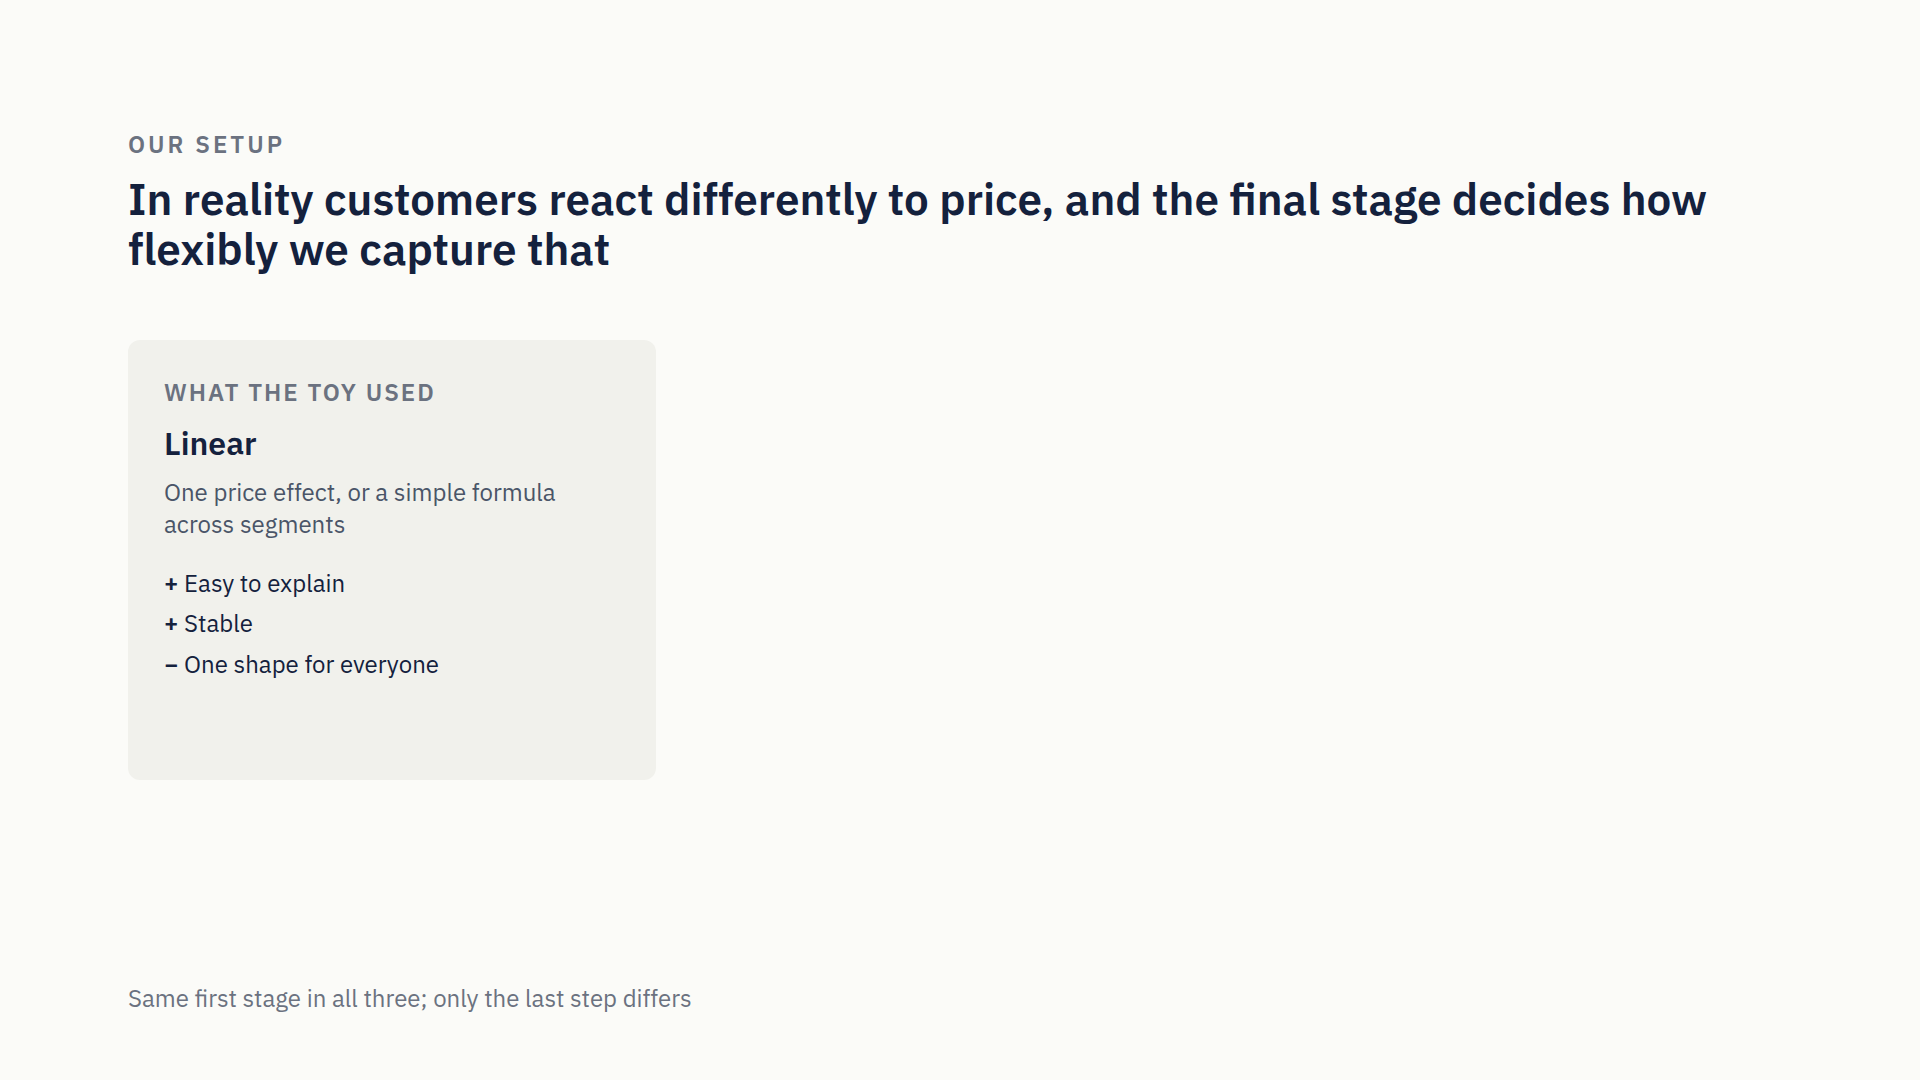
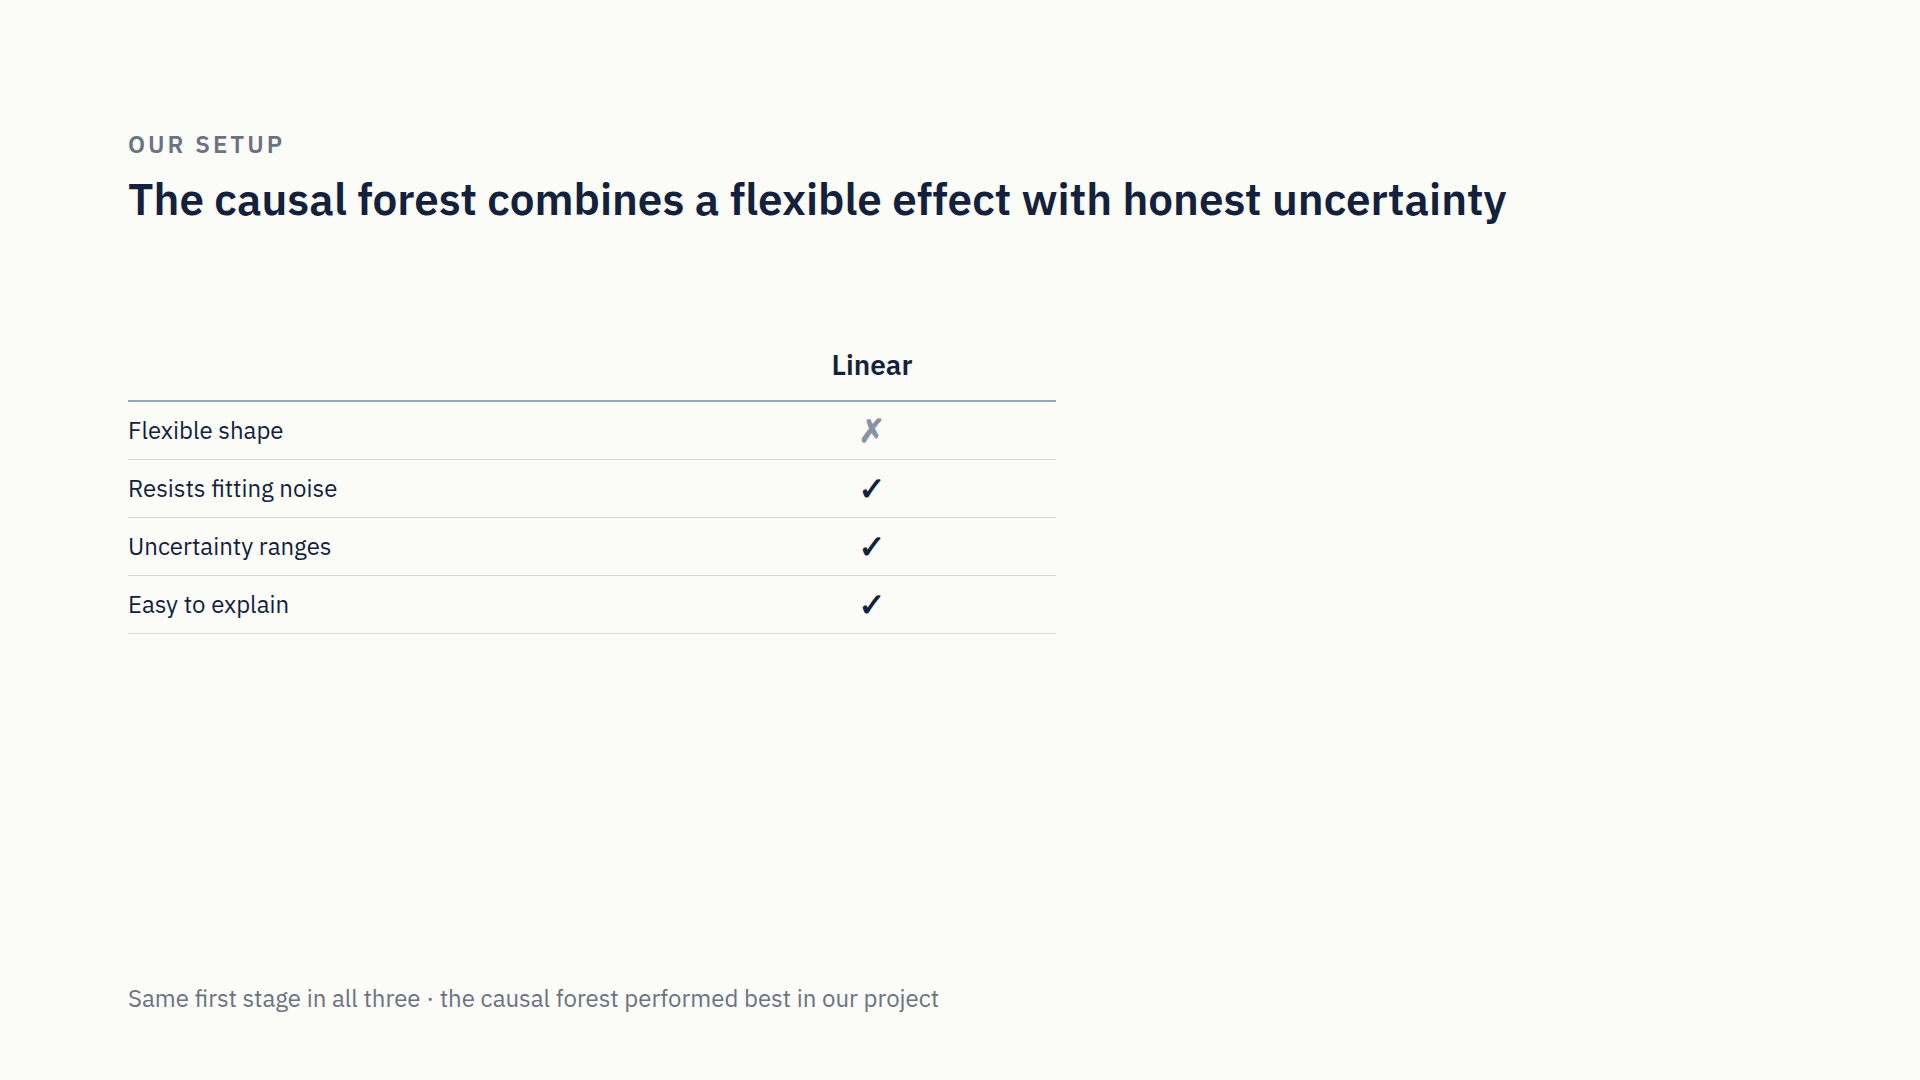
Slide 8: comparison grid with honest-trees diagram; drop slide 9
Final-stage options as a criteria grid (linear, boosted, causal forest)
plus a strip explaining how the causal forest works (splits on the
effect, honest trees as a two-halves diagram). The separate causal
forest slide repeated this and is removed; the deck has 8 slides.

Claude-Session: https://claude.ai/code/session_01L79CPAaUeWxGkpt4Mij7tB

diff --git a/causal-pricing-deck/deck/project/slides/final-stage.html b/causal-pricing-deck/deck/project/slides/final-stage.html
@@ -1,46 +1,73 @@
 <section id="final-stage" data-transition="fade" style="background:#FBFBF8; color:#4A5568; font-family:'IBM Plex Sans', Arial, sans-serif; padding:128px 128px 160px; display:flex; flex-direction:column; gap:12px">
   <p style="font-size:24px; font-weight:600; letter-spacing:3px; text-transform:uppercase; color:#6B7280">Our setup</p>
-  <h2 style="font-size:44px; font-weight:600; line-height:1.15; color:#14213D">In reality customers react differently to price, and the final stage decides how flexibly we capture that</h2>
-  <div data-build-in="fade 1" style="position:absolute; left:128px; top:340px; width:528px; height:440px; display:flex; flex-direction:column; gap:14px; background:#F1F1EC; border-radius:12px; padding:36px">
-    <p style="font-size:24px; font-weight:600; letter-spacing:2px; text-transform:uppercase; color:#6B7280">What the toy used</p>
-    <h3 style="font-size:32px; font-weight:600; line-height:1.2; color:#14213D">Linear</h3>
-    <p style="font-size:24px; line-height:1.35">One price effect, or a simple formula across segments</p>
-    <div style="display:flex; flex-direction:column; gap:8px; padding:12px 0px 0px 0px">
-      <p style="font-size:24px; line-height:1.35; color:#14213D"><b>+</b> Easy to explain</p>
-      <p style="font-size:24px; line-height:1.35; color:#14213D"><b>+</b> Stable</p>
-      <p style="font-size:24px; line-height:1.35; color:#14213D"><b>−</b> One shape for everyone</p>
+  <h2 style="font-size:44px; font-weight:600; line-height:1.15; color:#14213D">The causal forest combines a flexible effect with honest uncertainty</h2>
+  <div style="position:absolute; left:128px; top:330px; width:560px; display:flex; flex-direction:column">
+    <div style="height:72px; border-bottom:2px solid #9AA5B8"></div>
+    <div style="height:58px; display:flex; align-items:center; border-bottom:1px solid #D9D9D2"><p style="font-size:24px; color:#14213D">Flexible shape</p></div>
+    <div style="height:58px; display:flex; align-items:center; border-bottom:1px solid #D9D9D2"><p style="font-size:24px; color:#14213D">Resists fitting noise</p></div>
+    <div style="height:58px; display:flex; align-items:center; border-bottom:1px solid #D9D9D2"><p style="font-size:24px; color:#14213D">Uncertainty ranges</p></div>
+    <div style="height:58px; display:flex; align-items:center; border-bottom:1px solid #D9D9D2"><p style="font-size:24px; color:#14213D">Easy to explain</p></div>
+  </div>
+  <div data-build-in="fade 1" style="position:absolute; left:688px; top:330px; width:368px; display:flex; flex-direction:column">
+    <div style="height:72px; display:flex; align-items:center; justify-content:center; border-bottom:2px solid #9AA5B8"><p style="font-size:28px; font-weight:600; color:#14213D">Linear</p></div>
+    <div style="height:58px; display:flex; align-items:center; justify-content:center; border-bottom:1px solid #D9D9D2"><p style="font-size:32px; font-weight:600; color:#8A93A3">✗</p></div>
+    <div style="height:58px; display:flex; align-items:center; justify-content:center; border-bottom:1px solid #D9D9D2"><p style="font-size:32px; font-weight:600; color:#14213D">✓</p></div>
+    <div style="height:58px; display:flex; align-items:center; justify-content:center; border-bottom:1px solid #D9D9D2"><p style="font-size:32px; font-weight:600; color:#14213D">✓</p></div>
+    <div style="height:58px; display:flex; align-items:center; justify-content:center; border-bottom:1px solid #D9D9D2"><p style="font-size:32px; font-weight:600; color:#14213D">✓</p></div>
+  </div>
+  <div data-build-in="fade 2" style="position:absolute; left:1056px; top:330px; width:368px; display:flex; flex-direction:column">
+    <div style="height:72px; display:flex; align-items:center; justify-content:center; border-bottom:2px solid #9AA5B8"><p style="font-size:28px; font-weight:600; color:#14213D">Boosted</p></div>
+    <div style="height:58px; display:flex; align-items:center; justify-content:center; border-bottom:1px solid #D9D9D2"><p style="font-size:32px; font-weight:600; color:#14213D">✓</p></div>
+    <div style="height:58px; display:flex; align-items:center; justify-content:center; border-bottom:1px solid #D9D9D2"><p style="font-size:24px; color:#6B7280">partly</p></div>
+    <div style="height:58px; display:flex; align-items:center; justify-content:center; border-bottom:1px solid #D9D9D2"><p style="font-size:32px; font-weight:600; color:#8A93A3">✗</p></div>
+    <div style="height:58px; display:flex; align-items:center; justify-content:center; border-bottom:1px solid #D9D9D2"><p style="font-size:24px; color:#6B7280">partly</p></div>
+  </div>
+  <p data-build-in="fade 3" style="position:absolute; left:1424px; top:284px; width:368px; font-size:24px; font-weight:600; letter-spacing:2px; text-transform:uppercase; color:#1C5CAB; text-align:center">Our choice</p>
+  <div data-build-in="fade 3" style="position:absolute; left:1424px; top:327px; width:368px; display:flex; flex-direction:column; background:#FFFFFF; border:3px solid #2A78D6; border-radius:12px">
+    <div style="height:72px; display:flex; align-items:center; justify-content:center; border-bottom:2px solid #9AA5B8"><p style="font-size:28px; font-weight:600; color:#14213D">Causal forest</p></div>
+    <div style="height:58px; display:flex; align-items:center; justify-content:center; border-bottom:1px solid #D9D9D2"><p style="font-size:32px; font-weight:600; color:#14213D">✓</p></div>
+    <div style="height:58px; display:flex; align-items:center; justify-content:center; border-bottom:1px solid #D9D9D2"><p style="font-size:32px; font-weight:600; color:#14213D">✓</p></div>
+    <div style="height:58px; display:flex; align-items:center; justify-content:center; border-bottom:1px solid #D9D9D2"><p style="font-size:32px; font-weight:600; color:#14213D">✓</p></div>
+    <div style="height:58px; display:flex; align-items:center; justify-content:center; border-bottom:1px solid #D9D9D2"><p style="font-size:24px; color:#6B7280">partly</p></div>
+  </div>
+  <div data-build-in="fade 4" style="position:absolute; left:128px; top:660px; width:1664px; display:flex; flex-direction:column; gap:16px; border-left:4px solid #2A78D6; padding:4px 0px 4px 24px">
+    <p style="font-size:24px; font-weight:600; letter-spacing:2px; text-transform:uppercase; color:#6B7280">How the causal forest does it</p>
+    <div style="display:flex; flex-direction:row; gap:64px">
+      <div style="width:620px; display:flex; flex-direction:column; gap:8px">
+        <p style="font-size:28px; font-weight:600; line-height:1.25; color:#14213D">Splits on the effect</p>
+        <p style="font-size:24px; line-height:1.35">Looks for where price sensitivity changes, not where lapse changes</p>
+      </div>
+      <div style="flex:1; display:flex; flex-direction:column; gap:8px">
+        <p style="font-size:28px; font-weight:600; line-height:1.25; color:#14213D">Honest trees</p>
+        <div style="width:640px; display:flex; flex-direction:row">
+          <div style="flex:1; display:flex; flex-direction:column; gap:8px">
+            <div style="height:48px; display:flex; align-items:center; justify-content:center; background:#D6E4F5; border-radius:12px 0px 0px 12px"><p style="font-size:24px; font-weight:600; color:#1C5CAB">Half A</p></div>
+            <p style="font-size:24px; line-height:1.35; text-align:center">↓ chooses the splits</p>
+          </div>
+          <div style="flex:1; display:flex; flex-direction:column; gap:8px">
+            <div style="height:48px; display:flex; align-items:center; justify-content:center; background:#1C5CAB; border-radius:0px 12px 12px 0px"><p style="font-size:24px; font-weight:600; color:#FBFBF8">Half B</p></div>
+            <p style="font-size:24px; line-height:1.35; text-align:center">↓ measures the effect</p>
+          </div>
+        </div>
+      </div>
     </div>
   </div>
-  <div data-build-in="fade 2" style="position:absolute; left:696px; top:340px; width:528px; height:440px; display:flex; flex-direction:column; gap:14px; background:#F1F1EC; border-radius:12px; padding:36px">
-    <p style="font-size:24px; font-weight:600; letter-spacing:2px; text-transform:uppercase; color:#6B7280">Most flexible</p>
-    <h3 style="font-size:32px; font-weight:600; line-height:1.2; color:#14213D">Boosted final stage</h3>
-    <p style="font-size:24px; line-height:1.35">LightGBM learns the effect from the residuals</p>
-    <div style="display:flex; flex-direction:column; gap:8px; padding:12px 0px 0px 0px">
-      <p style="font-size:24px; line-height:1.35; color:#14213D"><b>+</b> Any shape of effect</p>
-      <p style="font-size:24px; line-height:1.35; color:#14213D"><b>+</b> Any ML model plugs in</p>
-      <p style="font-size:24px; line-height:1.35; color:#14213D"><b>−</b> Can chase noise in the residuals</p>
-      <p style="font-size:24px; line-height:1.35; color:#14213D"><b>−</b> No uncertainty ranges</p>
-    </div>
-  </div>
-  <div data-build-in="fade 3" style="position:absolute; left:1264px; top:340px; width:528px; height:440px; display:flex; flex-direction:column; gap:14px; background:#FFFFFF; border:3px solid #2A78D6; border-radius:12px; padding:33px">
-    <p style="font-size:24px; font-weight:600; letter-spacing:2px; text-transform:uppercase; color:#1C5CAB">Our choice</p>
-    <h3 style="font-size:32px; font-weight:600; line-height:1.2; color:#14213D">Causal forest</h3>
-    <p style="font-size:24px; line-height:1.35">Trees grown to find where the price effect differs</p>
-    <div style="display:flex; flex-direction:column; gap:8px; padding:12px 0px 0px 0px">
-      <p style="font-size:24px; line-height:1.35; color:#14213D"><b>+</b> Any shape of effect</p>
-      <p style="font-size:24px; line-height:1.35; color:#14213D"><b>+</b> Honest: resists fitting noise</p>
-      <p style="font-size:24px; line-height:1.35; color:#14213D"><b>+</b> Uncertainty per segment</p>
-      <p style="font-size:24px; line-height:1.35; color:#14213D"><b>−</b> Harder to explain than one number</p>
-    </div>
-  </div>
-  <p style="position:absolute; left:128px; bottom:64px; width:1480px; font-size:24px; color:#6B7280">Same first stage in all three; only the last step differs</p>
-  <aside>Message: the toy had one price effect for everyone. Real customers differ: young vs old, new vs long-standing, online vs agent. The first stage stays the same; the final stage decides how the effect may vary across customers.
+  <p style="position:absolute; left:128px; bottom:64px; width:1480px; font-size:24px; color:#6B7280">Same first stage in all three · the causal forest performed best in our project</p>
+  <aside>Message: real customers react differently to price, so the final stage has to let the effect θ̂(X) vary. Three options; the causal forest is the only one that is flexible, resists noise and gives uncertainty ranges. The first stage is the same in all three.
 
-Builds, left to right: simple → flexible → flexible and reliable.
+Start: the four criteria. Pause and ask: "What do we need from the final stage?"
 
-Click 1, Linear (econml LinearDML). What the toy used: one price effect, or a linear formula in a few chosen features. Easy to explain and stable, with standard confidence intervals. Limitation: the effect can only vary in the shape we write down.
+Click 1, Linear (econml LinearDML). What the toy used: one price effect, or a linear formula in a few chosen features. Stable, with standard confidence intervals, and easy to explain. But the effect can only vary in the shape we write down.
 
-Click 2, Boosted final stage. A LightGBM model learns the price effect as a function of the customer features from the first-stage residuals. We followed Causal Inference for the Brave and True (M. Facure, chapter on Debiased/Orthogonal ML). In its principled form this is the R-learner (Nie and Wager, 2021; in econml NonParamDML with a LightGBM final model): regress the lapse residual divided by the price residual on the features, weighted by the squared price residual. Strength: the most flexible final stage, any shape, any ML model. Weakness: the residuals are noisy, and where the price residual is small the model can chase that noise. There are no confidence intervals out of the box.
+Click 2, Boosted final stage: LightGBM learns the price effect from the first-stage residuals, following Causal Inference for the Brave and True (M. Facure, chapter on Debiased/Orthogonal ML). In its principled form this is the R-learner (Nie and Wager, 2021; econml NonParamDML with a LightGBM final model): regress the lapse residual divided by the price residual on the features, weighted by the squared price residual. Any shape of effect. But it uses the same data to choose its splits and to set the values in them, so it can chase noise in the residuals (early stopping helps only partly). No confidence intervals out of the box. Explainable through the usual tools for boosted models (partly).
 
-Click 3, Causal forest (econml CausalForestDML), our choice. The forest grows its trees to separate customers whose price effect differs, and uses honest trees and built-in confidence intervals. Why this won: next slide. The honest trade-off: a segment-level effect is harder to explain than one number.</aside>
+Click 3, Causal forest (econml CausalForestDML), our choice. Any shape, resists noise, confidence ranges per customer or segment. Harder to explain than a single number (partly), the price of flexibility.
+
+Click 4, how it does it:
+- Splits on the effect: a normal tree splits where lapse differs. The causal forest chooses splits that separate customers who react more to price from those who react less, which is the question pricing asks. → "Flexible shape".
+- Honest trees: each tree uses one half of its sample to choose the splits and the other half to estimate the effect in each leaf. A split that only looks good by chance does not also get to set its own effect → "Resists fitting noise". Because the effect is measured on data the split never saw, the confidence ranges are valid (Wager and Athey, 2018; Athey, Tibshirani and Wager, 2019) → "Uncertainty ranges".
+
+Footer: in our project it performed best of the three. Part of the gain is likely the honest trees themselves, not only the flexibility. The assumptions in "What Double ML needs" still hold for all three.
+
+Takeaway of the deck: use prediction models to predict, and causal estimators, with their assumptions explicit, to decide.</aside>
 </section>

diff --git a/causal-pricing-deck/README.md b/causal-pricing-deck/README.md
@@ -1,10 +1,10 @@
 # Causal pricing deck: LightGBM vs Double ML
 
-A 9-slide deck on causal ML in insurance pricing. It uses a toy renewal/lapse portfolio with a known truth.
+An 8-slide deck on causal ML in insurance pricing. It uses a toy renewal/lapse portfolio with a known truth.
 
 Live deck (Claude Slides artifact, private): https://claude.ai/artifact/TakwyxEBZxjuxXRuNt7iBw
 
-Story: confounding (age) → extrapolation (LightGBM freezes) → how Double ML works → pricing decision → why Double ML is better (convergence) → our setup: LightGBM first stage, final-stage options, why the causal forest.
+Story: confounding (age) → extrapolation (LightGBM freezes) → how Double ML works → pricing decision → why Double ML is better (convergence) → our setup: LightGBM first stage, then the final-stage options and why the causal forest.
 
 ## Toy world (`cont.py`)
 
